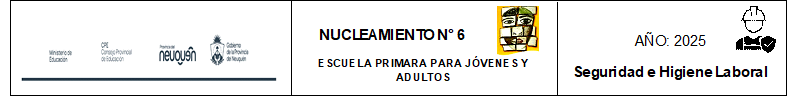
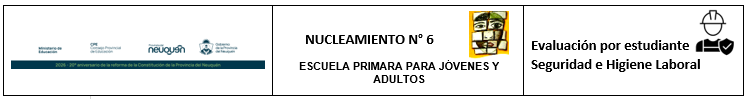
style: Configurar imagenes de encabezados para actas e informes grupales

Changed region(s): [[0.0, 0.0, 1.0, 0.9505], [0.3987, 0.2673, 0.5827, 0.4455]]

diff --git a/src/components/actas.js b/src/components/actas.js
@@ -282,10 +282,62 @@ async function generarPDF(data) {
     putOnlyUsedFonts: true
   });
 
+  // Helper function to load images cleanly as Data URL and get natural dimensions
+  const loadImageDataURL = async (src) => {
+    try {
+      const resp = await fetch(src);
+      if (!resp.ok) return null;
+      
+      // Vite may return index.html (200 OK) for missing files. We MUST check it's actually an image.
+      const contentType = resp.headers.get('content-type');
+      if (!contentType || !contentType.startsWith('image/')) return null;
+
+      const blob = await resp.blob();
+      return new Promise((resolve) => {
+        const reader = new FileReader();
+        reader.onloadend = () => {
+          const img = new Image();
+          img.onload = () => {
+            resolve({
+              data: reader.result,
+              type: contentType === 'image/jpeg' || contentType === 'image/jpg' ? 'JPEG' : 'PNG',
+              width: img.width,
+              height: img.height
+            });
+          };
+          img.onerror = () => resolve(null);
+          img.src = reader.result;
+        };
+        reader.readAsDataURL(blob);
+      });
+    } catch (err) {
+      return null;
+    }
+  };
+
+  // Cargar imagen del encabezado
+  const encabezado = await loadImageDataURL('/imagenes/encabezado-acta.png');
+
   // Ancho completo de la página A4 en mm = 210
   const pageWidth = doc.internal.pageSize.getWidth();
-  const marginX = 14; // Solo para el texto
-  let cursorY = 20; // Margen superior
+  const marginX = 14; // Solo para el texto (NO para la imagen)
+  const marginTop = 10; // Margen superior antes del encabezado
+  let cursorY = marginTop;
+
+  // ========== ENCABEZADO BANNER ==========
+  if (encabezado && encabezado.data) {
+    const imgWidth = pageWidth; // 100% del ancho de la hoja
+    const aspect = encabezado.height / encabezado.width;
+    const imgHeight = imgWidth * aspect;
+    
+    // Imagen con margen superior
+    doc.addImage(encabezado.data, encabezado.type, 0, marginTop, imgWidth, imgHeight);
+    
+    // El contenido arranca debajo con margen
+    cursorY = marginTop + imgHeight + 8;
+  } else {
+    cursorY = 20;
+  }
 
   doc.setFontSize(12);
   doc.setFont('helvetica', 'bold');

diff --git a/src/components/informes_grupales.js b/src/components/informes_grupales.js
@@ -188,9 +188,55 @@ async function generarInformePDF(data) {
     putOnlyUsedFonts: true
   });
 
+  // Helper function to load images cleanly as Data URL and get natural dimensions
+  const loadImageDataURL = async (src) => {
+    try {
+      const resp = await fetch(src);
+      if (!resp.ok) return null;
+      const contentType = resp.headers.get('content-type');
+      if (!contentType || !contentType.startsWith('image/')) return null;
+      const blob = await resp.blob();
+      return new Promise((resolve) => {
+        const reader = new FileReader();
+        reader.onloadend = () => {
+          const img = new Image();
+          img.onload = () => {
+            resolve({
+              data: reader.result,
+              type: contentType === 'image/jpeg' || contentType === 'image/jpg' ? 'JPEG' : 'PNG',
+              width: img.width,
+              height: img.height
+            });
+          };
+          img.onerror = () => resolve(null);
+          img.src = reader.result;
+        };
+        reader.readAsDataURL(blob);
+      });
+    } catch (err) {
+      return null;
+    }
+  };
+
+  // Cargar imagen del encabezado específica para informes grupales
+  const encabezado = await loadImageDataURL('/imagenes/encabezado-informe.png');
+
   const pageWidth = doc.internal.pageSize.getWidth();
   const marginX = 14;
-  let cursorY = 20;
+  const marginTop = 10;
+  let cursorY = marginTop;
+
+  // ========== ENCABEZADO BANNER ==========
+  if (encabezado && encabezado.data) {
+    const imgWidth = pageWidth;
+    const aspect = encabezado.height / encabezado.width;
+    const imgHeight = imgWidth * aspect;
+    doc.addImage(encabezado.data, encabezado.type, 0, marginTop, imgWidth, imgHeight);
+
+    cursorY = marginTop + imgHeight + 8;
+  } else {
+    cursorY = 20;
+  }
 
   // ========== TÍTULO ==========
   doc.setFontSize(14);
